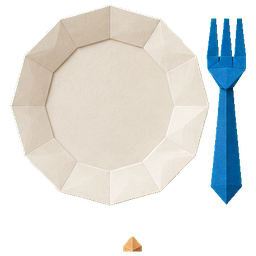
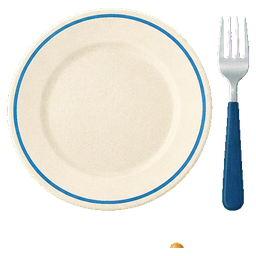
Quatre points de Jeanne : pièces vides accueillantes, fenêtre dégagée (shiftY), planche des humeurs et inclinaisons de Mochi C, encre bleu nuit ; pictos = pastilles-images (lot 1 régénéré en chroma)

diff --git a/src/components/mochi/scene.js b/src/components/mochi/scene.js
@@ -40,8 +40,9 @@ function Glow({ style, from = 0.35, to = 0.6, period = 2600, delay = 0 }) {
 }
 const Layer = ({ children, delay = 0, fade }) => <Animated.View entering={fade ? FadeIn.delay(delay) : ZoomIn.springify().damping(14).delay(delay)} style={{ position: 'absolute', left: 0, right: 0, top: 0, bottom: 0 }} pointerEvents="none">{children}</Animated.View>;
 
-export function Scene({ T, stage = 'mini', mood, lvl = 1, away = false, height = layout.scene, hideMochi = false, cracking = false, topInset = 0, backdrop = undefined, mochiSource = null, mochiBottom = null }) {
+export function Scene({ T, stage = 'mini', mood, lvl = 1, away = false, height = layout.scene, hideMochi = false, cracking = false, topInset = 0, backdrop = undefined, mochiSource = null, mochiBottom = null, shiftY = 0 }) {
   const c = T.scene, hh = height, fl = layout.floor, night = !!c.moon;
+  const { width: SW } = useWindowDimensions();
   // décision Jeanne 5 nov 2026 (« je préfère l'ancien ») : la pièce est le décor entier de ChatGPT, B le jour, D la nuit
   // l'appartement se remplit avec les paliers (Jeanne 5 nov : « au début l'appart est plus vide ») ; la nuit = le même décor sous un voile prune
   // le jour : la pièce de jour (soleil, mur mauve clair) ; le soir : la pièce validée (lune, gris-violet) — Jeanne 5 nov « montre la journée plutôt »
@@ -61,14 +62,13 @@ export function Scene({ T, stage = 'mini', mood, lvl = 1, away = false, height =
   const walk = useAnimatedStyle(() => ({ transform: [{ translateX: tx.value }, { translateY: hop.value }] }));
   // mise en place (retour Jeanne 4 nov 2026, « c'est un collage ») : les meubles REPOSENT sur le sol, la fenêtre est
   // sur le mur, le tapis est à plat sous Mochi, les tailles se répondent. Tout est relatif à la largeur de l'écran.
-  const { width: SW } = useWindowDimensions();
   const u = SW / 440; // unité : 1 px sur un 440 pt
   const fl2 = fl + 10; // sol un peu plus haut pour poser les meubles
   // topInset : zone réservée en haut (Accueil : barre d'état + en-tête) pour que rien ne passe sous le texte
   const winW = 168 * u, winH = Math.min(190 * u, hh - fl2 - topInset - 36), winT = Math.max(topInset + 8, hh - fl2 - winH - 28);
   return (
     <View style={{ height: hh, backgroundColor: c.wall, overflow: 'hidden' }}>
-      {backdrop ? <Image source={backdrop} style={{ position: 'absolute', left: 0, right: 0, top: 0, bottom: 0, width: '100%', height: '100%' }} resizeMode="cover" accessibilityIgnoresInvertColors /> : null}
+      {backdrop ? <Image source={backdrop} style={{ position: 'absolute', left: 0, top: shiftY, width: SW, height: hh }} resizeMode="cover" accessibilityIgnoresInvertColors /> : null}
       {backdrop ? null : <S l={0} r={0} b={0} h={fl2} c={c.floor} />}
 
       {topInset ? <LinearGradient colors={night ? ['rgba(30,24,40,0.55)', 'rgba(30,24,40,0)'] : ['rgba(245,241,234,0.75)', 'rgba(245,241,234,0)']} style={{ position: 'absolute', left: 0, right: 0, top: 0, height: topInset + 28 }} pointerEvents="none" /> : null}

diff --git a/src/components/mochi-img.js b/src/components/mochi-img.js
@@ -9,8 +9,11 @@ export const MOCHI_RATIO = 191 / 235; // hauteur / largeur du canevas
 // DA papier (5 nov 2026) : une seule image de Mochi pour l'instant (assets/mochi/papier.png, 512 × 433) ; les humeurs et
 // inclinaisons reviendront avec une planche dans cette matière. `source` explicite reste prioritaire.
 export const PAPIERS = { a: require('../../assets/mochi/papier-a.png'), b: require('../../assets/mochi/papier-b.png'), c: require('../../assets/mochi/papier-c.png') };
-const PAPIER = PAPIERS.c; // choix Jeanne 5 nov 2026 : C (aérographe doux, joues)
-export const PAPIER_RATIO = 0.74;
+// Mochi C, planche des humeurs et inclinaisons (5 nov 2026, Figma, chroma vert) : assets/mochi/papier/*.png, canevas commun
+const PF = { happy: require('../../assets/mochi/papier/happy.png'), neutral: require('../../assets/mochi/papier/neutral.png'), sad: require('../../assets/mochi/papier/sad.png'), sleeping: require('../../assets/mochi/papier/sleeping.png'), wink: require('../../assets/mochi/papier/wink.png'), leanL: require('../../assets/mochi/papier/leanL.png'), leanR: require('../../assets/mochi/papier/leanR.png'), surprised: require('../../assets/mochi/papier/surprised.png') };
+const PAPIER = PF.happy;
+export const PAPIER_RATIO = 0.81;
+export const papierFor = (lean, mood) => (mood && PF[mood]) || (lean <= -0.34 ? PF.leanL : lean >= 0.34 ? PF.leanR : PF.happy);
 const FRAMES = { // pas de « + » ni de « - » dans les noms : Metro ne résout pas ces fichiers
   '-3': require('../../assets/mochi/leanm3.png'), '-2': require('../../assets/mochi/leanm2.png'), '-1': require('../../assets/mochi/leanm1.png'),
   '0': require('../../assets/mochi/leanp0.png'),
@@ -25,8 +28,8 @@ export const frameFor = (lean, mood) => (mood && MOODS[mood]) || FRAMES[String(M
 // statique : `size` = largeur ; la hauteur suit le canevas
 export function MochiImage({ size = 140, lean = 0, mood, style, source }) {
   // humeur ≠ content : le cadre de face, incliné par rotation (les inclinaisons dessinées n'existent qu'avec le sourire)
-  const tilt = mood && MOODS[mood] ? [{ rotate: `${(lean || 0) * 8}deg` }] : [];
-  const src = source || PAPIER; const ratio = source ? MOCHI_RATIO : PAPIER_RATIO;
+  const tilt = source && mood && MOODS[mood] ? [{ rotate: `${(lean || 0) * 8}deg` }] : [];
+  const src = source || papierFor(lean || 0, mood); const ratio = source ? MOCHI_RATIO : PAPIER_RATIO;
   return <Image source={src} style={[{ width: size, height: size * ratio, transform: tilt }, style]} resizeMode="contain" accessibilityIgnoresInvertColors />;
 }
 

diff --git a/src/theme-v3.js b/src/theme-v3.js
@@ -9,7 +9,7 @@ import AsyncStorage from '@react-native-async-storage/async-storage';
 const JOUR = {
   night: false,
   // DA papier (décision Jeanne 5 nov 2026) : gris-violet mat, blanc cassé, carmin, vert citron
-  bg: '#F5F1EA', ink: '#2B2437', muted: '#847B94', line: 'rgba(43,36,55,0.12)', seg: 'rgba(43,36,55,0.10)', accent: '#D9483E', ok: '#6F9A2E', // jour blanc cassé (Jeanne 5 nov : « le fond je veux plutôt blanc cassé »)
+  bg: '#F5F1EA', ink: '#1F2A58', muted: '#6E7591', line: 'rgba(31,42,88,0.14)', seg: 'rgba(31,42,88,0.09)', accent: '#D9483E', ok: '#6F9A2E', // jour blanc cassé (Jeanne 5 nov : « le fond je veux plutôt blanc cassé »)
   scene: { wall: '#F5F1EA', floor: '#E6DCD2', window: '#DCEAF0', hill: '#A9C49A', sofa: '#E29C80', cushion: '#F3CDB6', plant: '#7FA574', pot: '#C7784F', rug: '#E7CDB0', lamp: '#F7DFA8', lampOn: false, frame: '#D7B68F', shelf: '#CFB08C', book1: '#C7784F', book2: '#7FA574', vase: '#EAD6BC', stool: '#CFB08C', curtain: '#E7B9A2', shadow: 'rgba(43,36,32,0.10)', sun: '#F7DFA8', moon: null, stars: false }, // plus chaud et plus franc (retour Jeanne 4 nov 2026 : « un peu triste »)
 };
 const NUIT = { // bleu marine, pas noir (retour Jeanne 4 nov 2026 : « fond noir trop foncé, pas très lisible »)

diff --git a/app/(tabs)/index.js b/app/(tabs)/index.js
@@ -187,7 +187,7 @@ export default function Home() {
 
   return (
     <View style={{ flex: 1, backgroundColor: T.bg }}>
-      <Pressable onPress={() => router.push('/chambre')} style={{ position: 'absolute', top: 0, left: 0, right: 0 }}><Scene T={T} stage={m.stage} mood={mood} lvl={lvl} away={away} topInset={insets.top + 44} /></Pressable>
+      <Pressable onPress={() => router.push('/chambre')} style={{ position: 'absolute', top: 0, left: 0, right: 0 }}><Scene T={T} stage={m.stage} mood={mood} lvl={lvl} away={away} topInset={insets.top + 44} shiftY={34} /></Pressable>
       {flight && pearlsAt ? <PearlFlight key={flight.key} from={{ x: width / 2, y: layout.scene - layout.floor - 60 }} to={pearlsAt} count={Math.min(5, flight.n)} color={T.accent} onArrive={() => { pop(); Haptics.impactAsync(Haptics.ImpactFeedbackStyle.Medium).catch(() => {}); }} /> : null}
       <SafeAreaView style={{ flex: 1 }} edges={['top']} pointerEvents="box-none">
         <View style={{ flex: 1, overflow: 'hidden' }} pointerEvents="box-none" onLayout={e => setAvailH(e.nativeEvent.layout.height)}>

diff --git a/src/components/task-icon.js b/src/components/task-icon.js
@@ -74,7 +74,8 @@ export const iconFor = emoji => ICONS[BY_EMOJI[String(emoji || '').trim()] || (I
 export function TaskIcon({ emoji, icon, size = 20, color, sw = 1.9, style, pad = true, image = true }) {
   const T = useTokens();
   const key = icon || keyFor(emoji);
-  if (image && IMG[key]) return <Image source={IMG[key]} style={[{ width: size + 16, height: size + 16 }, style]} resizeMode="contain" accessibilityIgnoresInvertColors />;
+  // décision Jeanne 5 nov 2026 : les pastilles-images (objet dans un rond doux)
+  if (image && IMG[key]) return <View style={[{ width: size + 16, height: size + 16, borderRadius: (size + 16) / 2, backgroundColor: T.seg, alignItems: 'center', justifyContent: 'center', overflow: 'hidden' }, style]}><Image source={IMG[key]} style={{ width: size + 8, height: size + 8 }} resizeMode="contain" accessibilityIgnoresInvertColors /></View>;
   const d = ICONS[key] || ICONS.generic;
   const box = pad ? size + 16 : size;
   return (

diff --git a/TODO.md b/TODO.md
@@ -384,3 +384,4 @@ Décisions Jeanne (tableau de bord, 4 nov 2026) : coucher du foyer 22 h (migrati
 5 nov 2026 (soir, suite) — Demandes Jeanne : « tests pour le Mochi, fond clair sauf le soir, fondu au lieu d'une coupure nette, appart plus vide au début ». Fait : JOUR = lilas clair `#EFE9F3` / encre `#2B2437` / carmin / vert `#6F9A2E`, NUIT = prune ; décors clairs générés (Figma) en trois niveaux `assets/maison/decor-vide|moyen|plein.png` choisis par le palier (`lvl` ≤ 1 vide, ≤ 3 moyen, sinon plein), voile prune la nuit ; `LinearGradient` de 64 px en bas de la scène vers le fond ; trois Mochi papier `assets/mochi/papier-a|b|c.png` (A galet mat, B facettes, C aérographe joues), A par défaut, comparaison `/proto-da2?v=jour&m=a|b|c`. Planches envoyées à Jeanne. Reste : son choix A/B/C, puis planche des humeurs et inclinaisons de ce Mochi, vraie pièce de nuit (lune, lampe), lots d'icônes 2-7 en papier découpé, bande claire derrière la date/perles si besoin.
 5 nov 2026 (nuit) — **Choix Jeanne : Mochi C** (aérographe doux, joues ; `PAPIERS.c` par défaut) et **retour de la pièce validée** (« pourquoi tu remets pas le fond validé ») : `assets/maison/decor-plein.png` = la pièce papier du deuxième test, `decor-vide` et `decor-moyen` régénérés dans le MÊME style (gris-violet, lune, rideau carmin) pour les premiers paliers ; les versions claires sont rangées dans `assets/maison/clair/`. Le fond clair du jour ne concerne que l'écran sous la pièce. Lisibilité : bande dégradée sombre en haut de la scène (`topInset`) + en-tête de l'Accueil en blanc cassé (`HEAD`). Voile de nuit sur la pièce : 35 %. Reste : planche des humeurs/inclinaisons de Mochi C (Figma, chroma vert), vraie pièce de nuit, lots d'icônes 2-7, repasse n°2.
 5 nov 2026 (nuit, suite) — « Un peu terne, montre la journée plutôt, fond blanc cassé » : la pièce validée (lune, gris-violet) devient la pièce du SOIR (`assets/maison/nuit-vide|moyen|plein.png`), et une pièce de JOUR dans le même style (soleil, mur mauve-rose, couleurs franches) est générée en trois états (`jour-vide|moyen|plein.png`) ; `Scene` choisit jour/nuit × palier. Fond du jour = blanc cassé `#F5F1EA`. En-tête de l'Accueil : encre le jour, blanc cassé la nuit, bande dégradée assortie. Vu : Accueil (jour 1, pièce vide), moment (pièce moyenne), Planning. Reste : planche des humeurs/inclinaisons de Mochi C, lots d'icônes 2-7, vérifier la nuit (pièce validée + prune), repasse n°2.
+5 nov 2026 (fin de nuit) — « ok go » sur les quatre points + « j'aimais ces pictos » (les pastilles-images). Fait : (1) pièces vides régénérées plus accueillantes (ballon, petite plante, confettis) jour et nuit ; (2) `Scene` `shiftY` (Accueil : 34) pour dégager la fenêtre de l'en-tête ; (3) **planche des humeurs de Mochi C** (`assets/mochi/papier/` : happy, neutral, sad, sleeping, wink, leanL, leanR, surprised, canevas commun ancré en bas, ratio 0,81) branchée dans `MochiImage` via `papierFor(lean, mood)` — plus de rotation artificielle ; (4) encre du jour en bleu nuit `#1F2A58` (carmin + bleu nuit présents dans l'interface). Pictos : `TaskIcon` rend l'image dans une pastille `T.seg` (icônes lot 1 régénérées en chroma, `assets/icones/`). Vu : Accueil, Balance (Mochi triste quand ça penche), check-in. Reste : lots d'icônes 2-7 dans ce style (chroma vert, pastille), nuit à vérifier, pièce « pleine » du soir = pièce validée, repasse n°2 de Jeanne.
